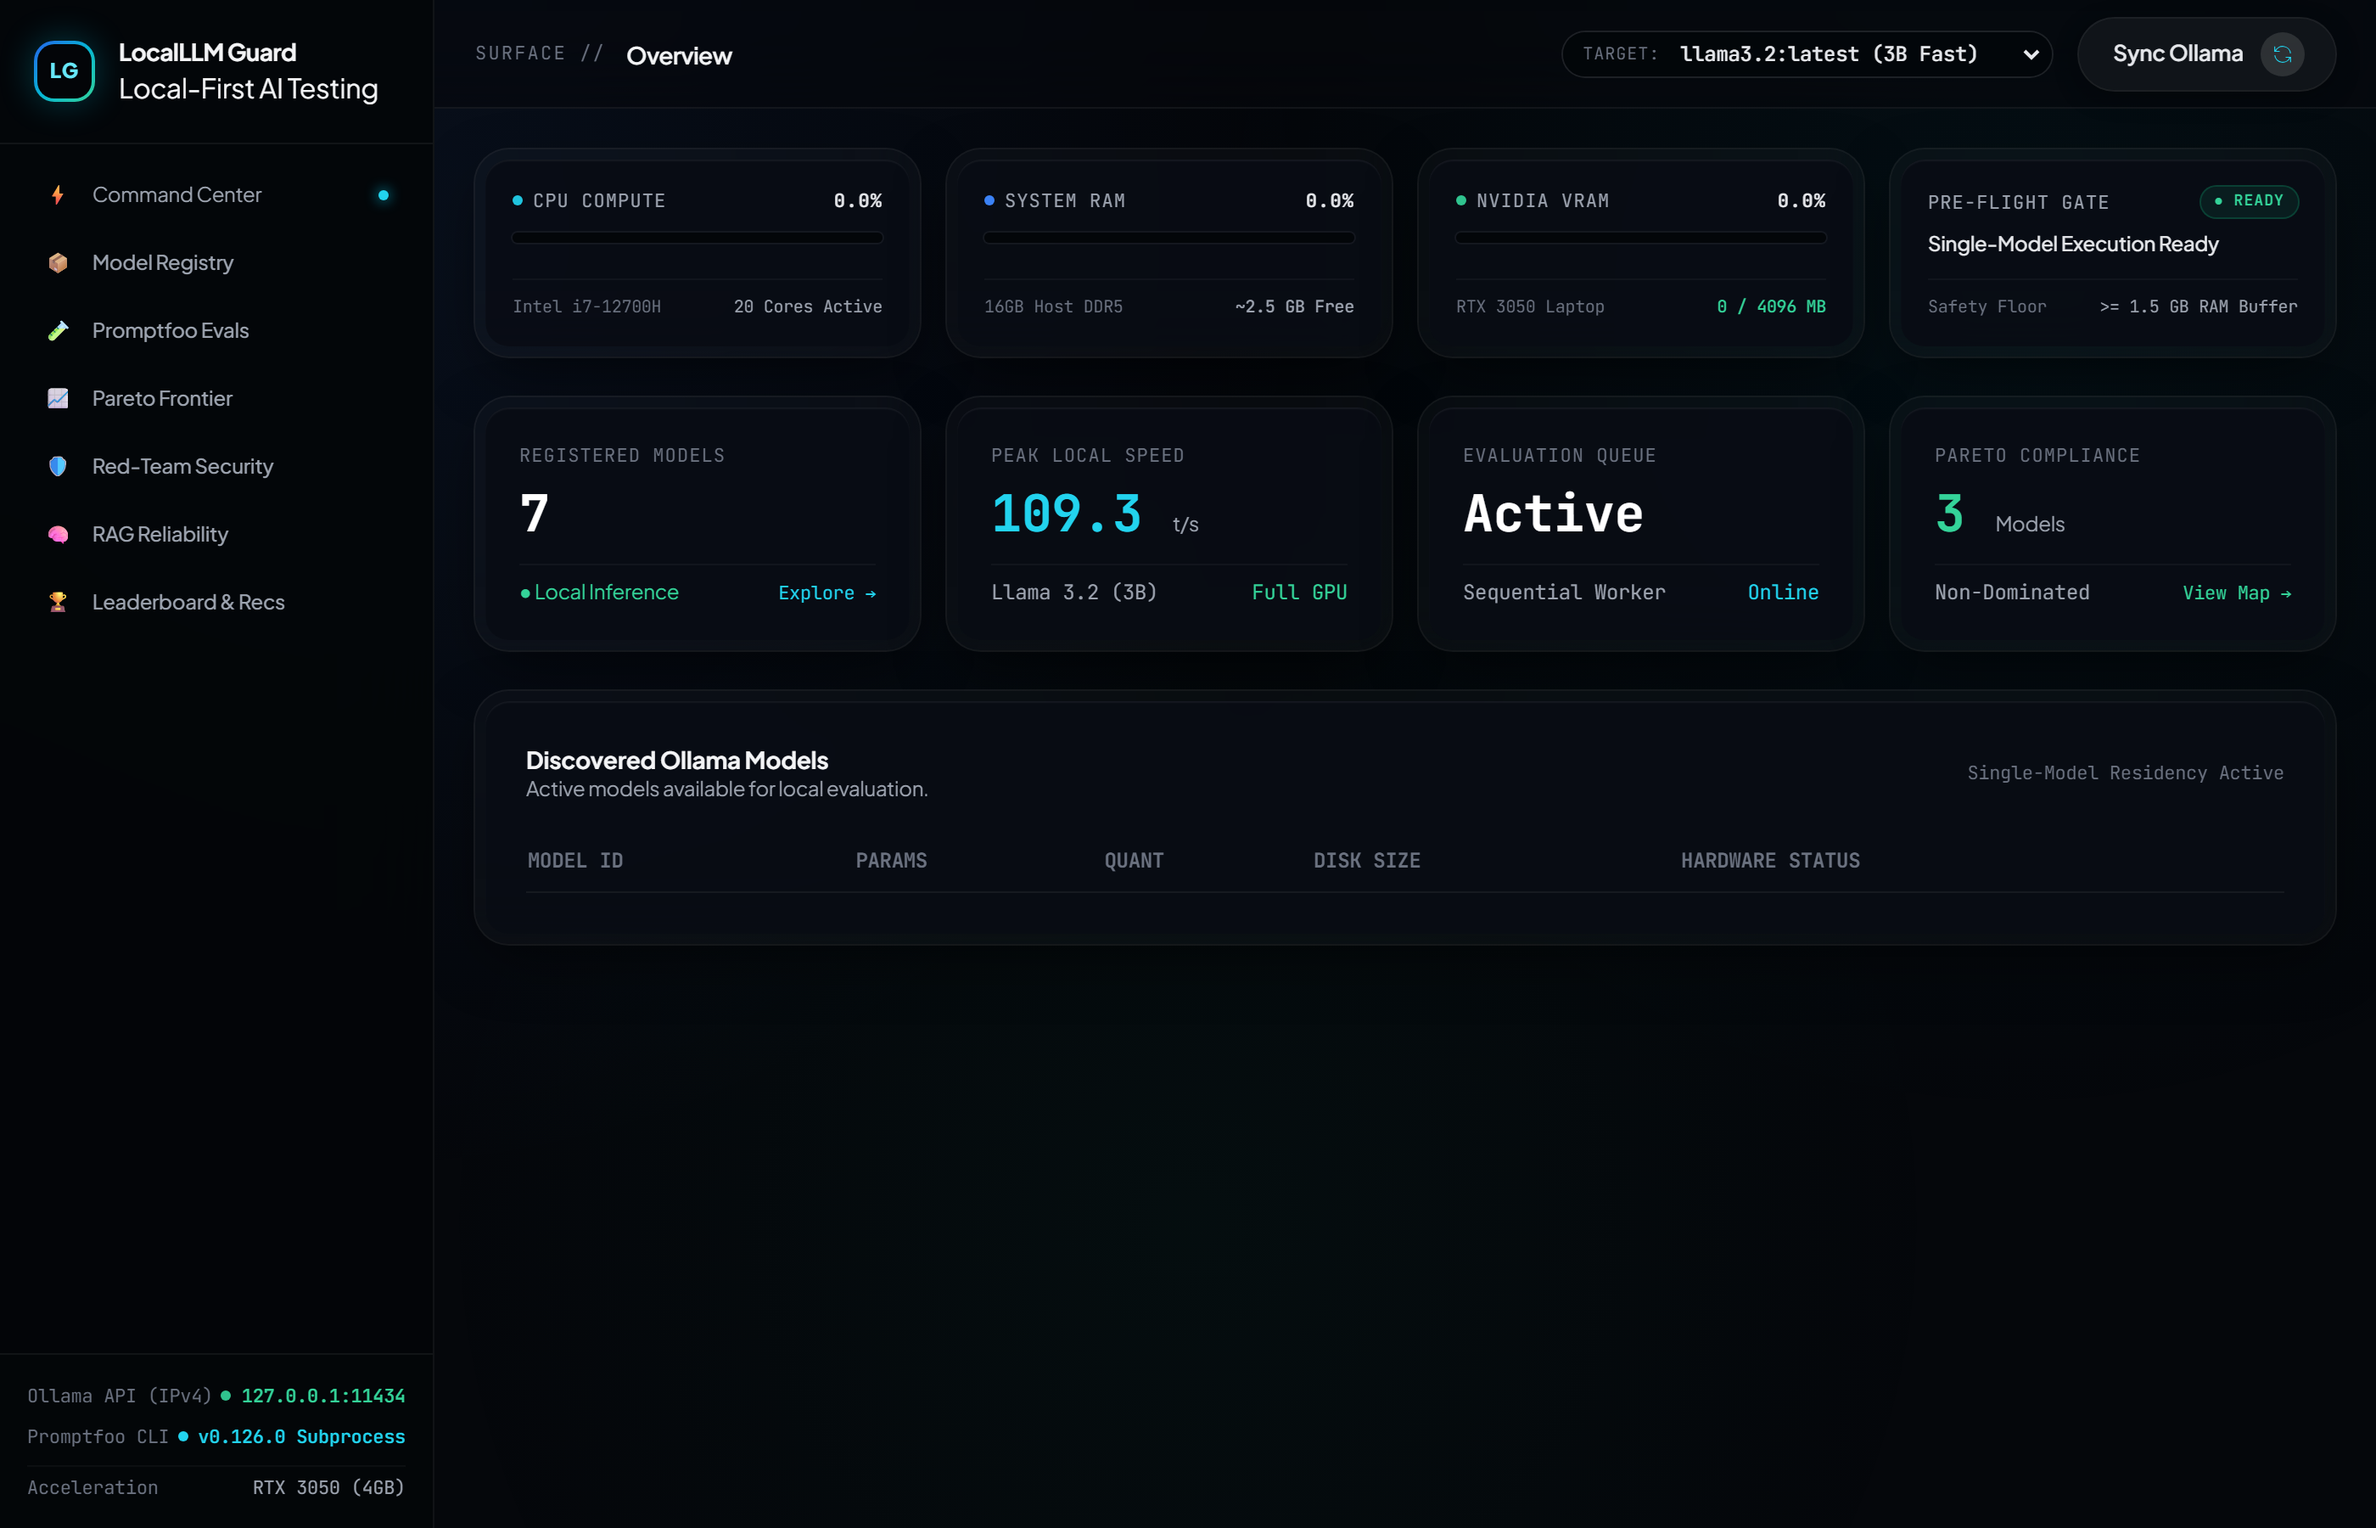
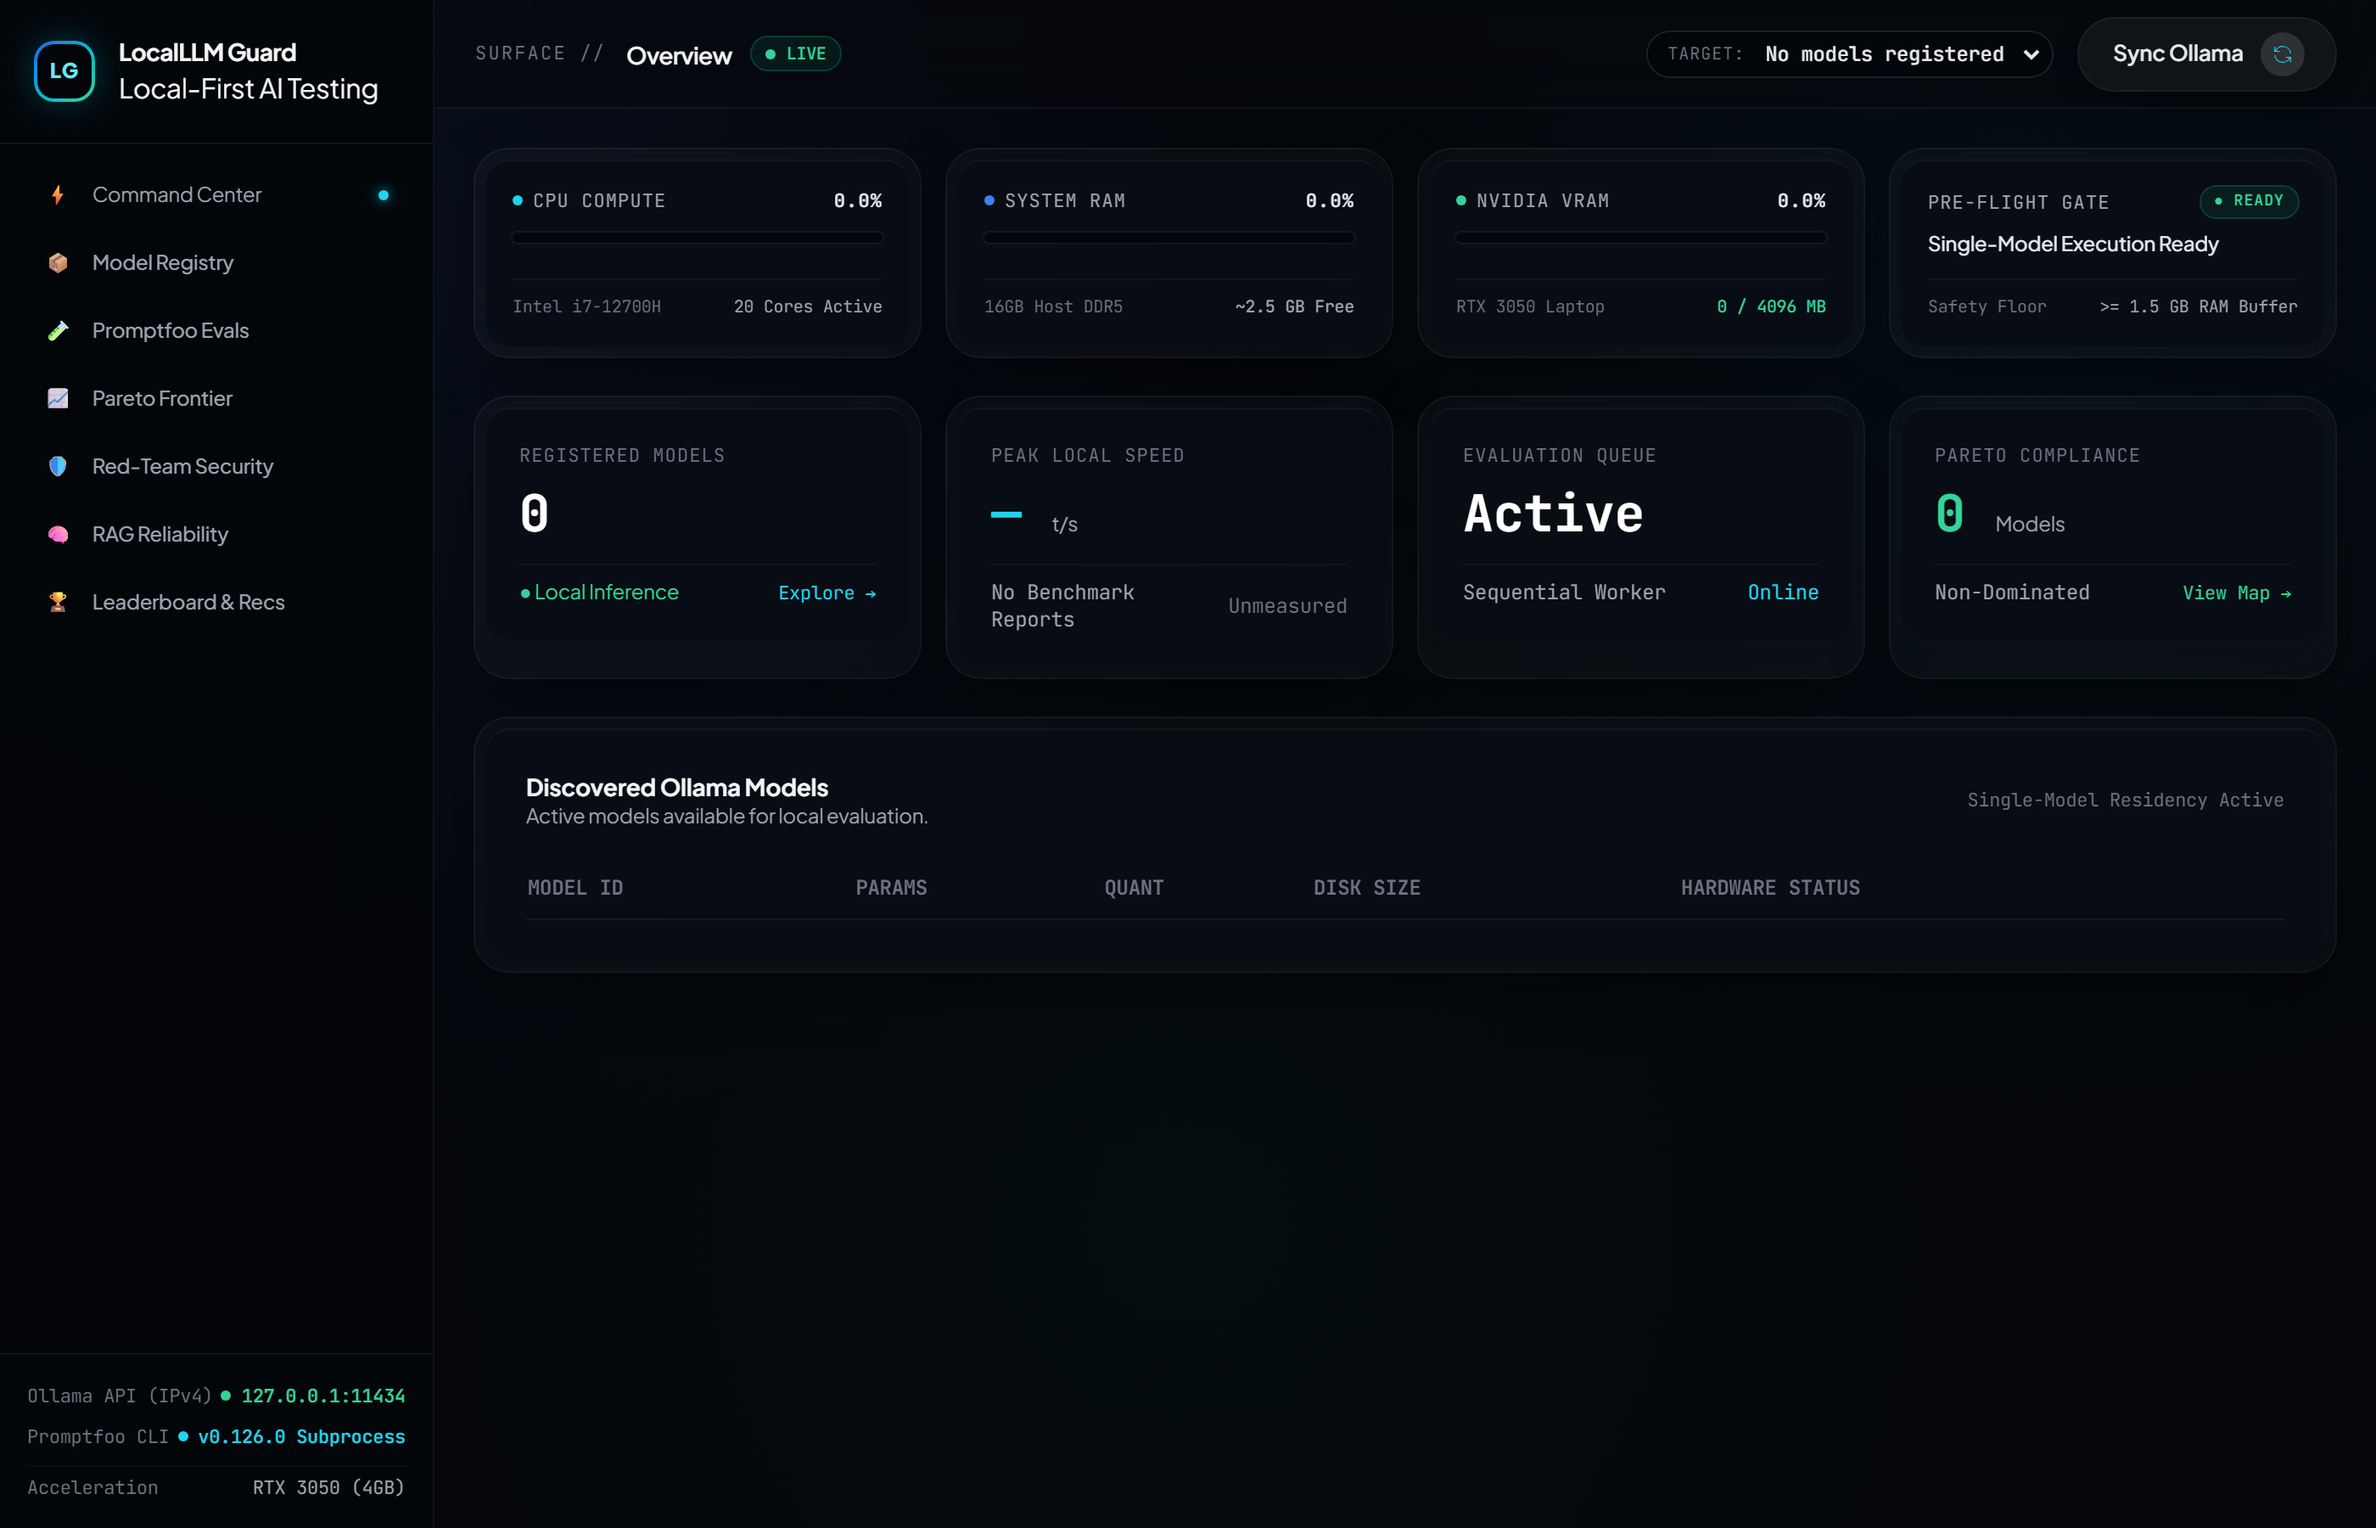
docs: update README stats, per-model results, and refreshed dashboard screenshots

diff --git a/README.md b/README.md
@@ -5,7 +5,7 @@
 [![SQLite WAL](https://img.shields.io/badge/SQLite-WAL%20Mode-003B57.svg)](https://www.sqlite.org/wal.html)
 [![Promptfoo](https://img.shields.io/badge/Promptfoo-v0.126-orange.svg)](https://www.promptfoo.dev/)
 [![Ollama](https://img.shields.io/badge/Ollama-Local%20Inference-black.svg)](https://ollama.com/)
-[![Tests](https://img.shields.io/badge/Tests-68%20Backend%20%7C%205%20Frontend%20Passing-brightgreen.svg)]()
+[![Tests](https://img.shields.io/badge/Tests-70%20Backend%20%7C%205%20Frontend%20Passing-brightgreen.svg)]()
 [![Pareto Frontier](https://img.shields.io/badge/Pareto%20Frontier-Empirical%20Live%20Wiring-cyan.svg)]()
 [![Hardware Verified](https://img.shields.io/badge/Hardware-RTX%203050%20(4GB)-76B900.svg)](https://www.nvidia.com/)
 [![License: MIT](https://img.shields.io/badge/License-MIT-yellow.svg)](https://opensource.org/licenses/MIT)
@@ -134,11 +134,9 @@ The platform features an automated adversarial red-teaming scanner supporting tw
 - **SQLite (WAL Mode):** Stores relational entities, configurations, execution runs, and scalar metrics with zero lock contention.
 - **Append-Only JSONL:** Detailed prompt inputs, model completions, reasoning traces (`<think>...</think>`), and raw assertion evaluations are streamed into `/data/runs/{run_id}.jsonl`.
 
-### 7. Dark-First Infrastructure Dashboard
-- **Embedded Web Dashboard:** Served directly by FastAPI at `http://127.0.0.1:8000/dashboard`.
-- Real-time CPU, RAM, and NVIDIA GPU VRAM progress meters.
-- Model registry explorer with one-click Ollama sync.
-- Interactive Red-Teaming scanner and RAG Triad visualizer.
+### 7. Dual-Surface Interactive Dashboards
+- **Embedded FastAPI Dashboard (`/dashboard`):** Self-contained dark-theme interface featuring real-time CPU, RAM, and NVIDIA GPU VRAM meters with `LIVE` / `STALE` / `DISCONNECTED` connection tracking, visibility-aware telemetry polling, dynamic Ollama model selection, XSS-hardened output rendering, bounded evaluation polling, and empirical Pareto cards (zero synthetic fallback data).
+- **React 19 + TypeScript Frontend (`/frontend`):** Full SPA featuring an interactive SVG Pareto Frontier (`ParetoChart.tsx`) with dataset-filtered reports, convex-hull frontier lines, hardware provenance badges (`gpu_name`, `gpu_source`), and side-by-side model comparison cards.
 
 ---
 
@@ -157,6 +155,13 @@ Empirically calibrated and benchmarked on **Intel Core i7-12700H** + **NVIDIA Ge
 | **`mxbai-embed-large:latest`** | Large | 669 MB | Full GPU | ~820 MB | 0 MB | **1024-dim** | **100% Context** | < 20 ms | High-Recall Embedding |
 
 > **Telemetry Provenance Note:** LocalLLM Guard strictly identifies **NVIDIA SMI** telemetry as system-wide allocated GPU memory (`peak_vram_mb`) and **Ollama `/api/ps`** telemetry as model resident weights (`peak_ollama_vram_mb`). Missing measurements remain `null` (`N/A`) and are never fabricated as zero.
+
+### Per-Model Empirical Takeaways (RTX 3050 4GB + 16GB RAM)
+- **`llama3.2:latest` (3B) — Speed & Efficiency Leader (Pareto Optimal):** Fits 100% in 4GB VRAM (~2,210 MB system GPU / ~2,000 MB Ollama weights, 0 MB host RAM paging), achieving **109.3 t/s** and **92.0%** instruction accuracy with ~110 ms average latency.
+- **`qwen3:4b` (4B) — Balanced Reasoning (Pareto Optimal):** Uses ~2,480 MB system GPU VRAM with ~1.1 GB host RAM paging, delivering **41.9 t/s** and **91.0%** accuracy while retaining internal `<think>` reasoning traces.
+- **`qwen3:8b` (8B) — Highest Accuracy / Quality Leader (Pareto Optimal):** Achieves the top **94.0%** accuracy at **14.7 t/s** (~680 ms latency) by splitting weights across ~2,520 MB GPU VRAM and ~3.5 GB host RAM.
+- **`qwen2.5:3b` (3B) & `qwen3:1.7b` (1.7B) — Dominated on Pareto Frontier:** Both fit 100% in GPU VRAM (**55.0 t/s @ 88.0%** and **70.0 t/s @ 82.0%** respectively) but are dominated by `llama3.2:latest` on both throughput and accuracy.
+- **`qwen3-embedding:0.6b` & `mxbai-embed-large:latest` — RAG Embedding Models:** Both run 100% in GPU VRAM (< 850 MB peak, < 20 ms latency) producing 1024-dimensional embeddings with **100% context retrieval** on the architectural RAG corpus.
 
 ---
 
@@ -279,7 +284,7 @@ LocalLLM-Guard/
 │   │   │   └── execution_worker.py  # Sequential background worker daemon
 │   │   ├── config.py                # Pydantic BaseSettings (.env loader)
 │   │   └── main.py                  # FastAPI factory & lifespan event manager
-│   └── tests/                       # 22 automated unit & integration tests
+│   └── tests/                       # 70 automated unit, integration, and browser reliability tests
 │
 ├── frontend/                        # Complete React + TypeScript + Vite + Tailwind source
 ├── data/                            # Local database, configs, and JSONL traces (git-ignored)
@@ -321,7 +326,7 @@ Launch your web browser to:
 - **Interactive Swagger API Docs:** [http://127.0.0.1:8000/docs](http://127.0.0.1:8000/docs)
 
 ### 4. Run the Automated Test Suites
-Run the full backend test suite (68 tests across health, hardware telemetry, security classification, RAG, and live Pareto benchmarks):
+Run the full backend test suite (70 tests across health, hardware telemetry, security classification, RAG, live Pareto benchmarks, and dashboard reliability):
 ```powershell
 python -m pytest backend/tests/ -v
 ```
